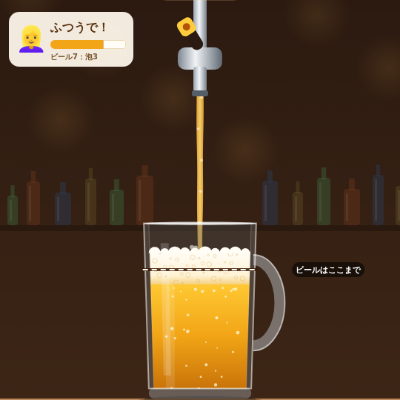
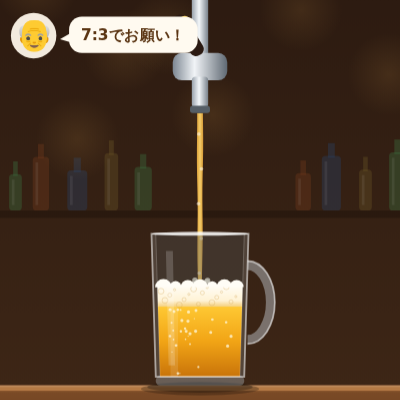
ビール注ぎ：注ぐ間のガイド線をなくし、お客さんの注文だけで判断する形に
Claude-Session: https://claude.ai/code/session_01G9HjaixTmY2WVcRow5FnGD

diff --git a/vappa-test/games/beer/index.html b/vappa-test/games/beer/index.html
@@ -26,7 +26,7 @@
 <div id="ov">
   <div class="emo">🍺</div>
   <h1>ビール注ぎ名人</h1>
-  <p><b>長押しで注いで、点線で指をはなす。</b><br>泡は あとから増えるよ！</p>
+  <p><b>お客さんの注文を聞いて、長押しで注ごう。</b><br>「7:3」なら ビール7割で指をはなす！<br>ガイド線はなし。泡は あとから増えて<br>ふちまでピッタリなら 大成功！</p>
   <button id="startBtn">はじめる</button>
 </div>
 <script src="../../js/arcade-sdk.js?v=2"></script>
@@ -115,10 +115,14 @@
   var holding=false,needRelease=false,everPoured=false;
   var shake=0;
 
+  // 注文：泡の割合は蛇口が自動で合わせる。プレイヤーは「ビールが何割まで来たか」を言葉だけで判断して止める
   var ORDERS={
-    std:   {type:"std",  target:0.30,title:"ふつうで！",  sub:"ビール7：泡3"},
-    more:  {type:"more", target:0.50,title:"泡多めで！",  sub:"蛇口が泡多めモードに。点線でストップ！"},
-    nofoam:{type:"nofoam",target:0.08,title:"泡なしで！",  sub:"泡ひかえめで注ぐよ。点線でストップ！"}
+    std:   {type:"std",   target:0.30,say:"7:3でお願い！",  title:"ビール7：泡3",sub:"ビール7割で 指をはなそう"},
+    r82:   {type:"r82",   target:0.20,say:"8:2で たのむ！", title:"ビール8：泡2",sub:"いつもより ちょい長めに注ごう"},
+    r64:   {type:"r64",   target:0.40,say:"6:4で よろしく！",title:"ビール6：泡4",sub:"泡が多め。少し早めにストップ"},
+    more:  {type:"more",  target:0.50,say:"泡多めで 5:5！", title:"ビール5：泡5",sub:"半分で止めないと あふれるぞ！"},
+    nami:  {type:"nami",  target:0.10,say:"なみなみ 9:1！", title:"ビール9：泡1",sub:"ふちギリギリまで ビール！"},
+    nofoam:{type:"nofoam",target:0.04,say:"泡なしで！",     title:"泡なし",      sub:"ほぼビールだけ。ふちまで注ごう"}
   };
   var FACES=["🧔","👩","👨🦲","👵","🧑💼","👱♀","🧑🍳","👴"];
 
@@ -138,23 +142,24 @@
     else if(n>=7&&r<(late?0.52:0.40))tap="sputter";
     if(n===4)tap="max";
     if(n===7)tap="sputter";
-    var ot="std";
-    if(n===5)ot="more";else if(n===9)ot="nofoam";
-    else if(n>5){var r2=Math.random();if(r2<0.17)ot="more";else if(r2<0.32)ot="nofoam";}
-    if(ot==="nofoam"&&tap==="max")tap="normal";
+    var ot="std",FIX={2:"r82",5:"more",6:"r64",9:"nofoam",11:"nami"};
+    if(FIX[n])ot=FIX[n];
+    else if(n>6){var r2=Math.random();ot=r2<0.28?"std":r2<0.44?"r82":r2<0.60?"r64":r2<0.74?"more":r2<0.88?"nami":"nofoam";}
+    if((ot==="nofoam"||ot==="nami")&&tap==="max")tap="normal";
+    var prevType=prev?prev.order.type:(cur?cur.order.type:"std");
     var speed=Math.max(0.72,1-n*0.012);
     cur={key:key,sh:sh,tap:tap,order:ORDERS[ot],face:FACES[(Math.random()*FACES.length)|0],
       L:0,F:0,P:0,LP:0,m:0,f:0,fj:0,pres:1,presT:1,sputT:0,T:sh.T*speed,
       state:"enter",st:0,x:W+200,idle:0,poured:false,result:null,over:false,
       overT:0,react:null,tilt:0,cardT:0};
-    // 目標ライン：泡がふちまで来たとき、ビールがここまで
+    // 正解ライン（注いでいる間は非表示。結果のときだけ答え合わせで見せる）
     cur.lineT=levelOf(sh,sh.cap*(1-cur.order.target));
     bubbles=[];for(var i=0;i<34;i++)bubbles.push({u:Math.random()*1.7-0.85,t:Math.random(),v:0.18+Math.random()*0.35,r:0.8+Math.random()*1.6});
     // 告知
     if(!sh.seen){sh.seen=true;showBanner((n===0?"":"NEW！ ")+sh.name,sh.tip,"#ffd166");}
     else if(tap==="max")showBanner("勢いMAX！","ドバッと出るぞ！早めにストップ","#ff6b6b");
     else if(tap==="sputter")showBanner("蛇口がゴボゴボ…","出たり止まったり！気をつけて","#7ad3ff");
-    else if(ot!=="std")showBanner(cur.order.title,cur.order.sub,"#9cff8f");
+    else if(ot!==prevType||n===0)showBanner(cur.order.title,cur.order.sub,"#9cff8f");
   }
   function showBanner(t,s,col){banner={t:t,s:s,col:col,age:0,dur:1.9};}
 
@@ -189,6 +194,7 @@
   function judge(over){
     var c=cur;c.F+=c.P;c.P=0;c.L+=c.LP;c.LP=0;
     var tot=c.L+c.F,vf=tot/c.sh.cap,r=tot>0?c.F/tot:0,tg=c.order.target;
+    if(!over&&vf>1.08){over=true;c.over=true;}
     var fillS=vf>=0.96?1:clamp((vf-0.60)/0.36,0,1);
     var err=Math.abs(r-tg);
     var ratioS=clamp(1-(err-0.06)/0.26,0,1);
@@ -253,7 +259,7 @@
       pourStep(c,dt);
       if(c.result.over){c.overT+=dt;if(Math.random()<dt*40){var side=Math.random()<0.5?-1:1;parts.push({x:c.x+side*(c.sh.hw(1)*S+4),y:mugTopY(c)+Math.random()*10,vx:side*8,vy:20+Math.random()*30,g:300,life:0.9,age:0,r:2+Math.random()*3,col:"#fff2d6",kind:"drop"});}}
       if(gameOverT>0){gameOverT-=dt;if(gameOverT<=0){gameOver();return;}}
-      else if(c.st>1.25){prev=c;prev.st=0;prev.state="exit";n++;newMug();}
+      else if(c.st>1.6){prev=c;prev.st=0;prev.state="exit";n++;newMug();}
     }
     if(prev){prev.st+=dt;prev.x=lerp(W/2,-240,Math.pow(clamp(prev.st/0.5,0,1),2));if(prev.st>0.55)prev=null;}
     // 泡（中の気泡）
@@ -434,43 +440,49 @@
     ctx.fillStyle="rgba(255,255,255,.75)";ctx.beginPath();ctx.ellipse(x,base-Hm,sh.hw(1)*S+6*S,2.2,0,0,Math.PI*2);ctx.fill();
     ctx.fillStyle="rgba(255,255,255,.18)";
     ctx.beginPath();for(var s=0;s<=20;s++){var t=0.08+s/20*0.8;ctx.lineTo(x-sh.hw(t)*S*0.78,base-t*Hm);}for(s=20;s>=0;s--){t=0.08+s/20*0.8;ctx.lineTo(x-sh.hw(t)*S*0.62,base-t*Hm);}ctx.closePath();ctx.fill();
-    // 目標ライン
-    if(isCur&&(c.state==="pour"||c.state==="enter")){
-      var lyT=base-c.lineT*Hm,lw=sh.hw(c.lineT)*S;
-      ctx.strokeStyle="rgba(60,25,0,.85)";ctx.lineWidth=4;
-      ctx.beginPath();ctx.moveTo(x-lw-10,lyT);ctx.lineTo(x+lw+10,lyT);ctx.stroke();
-      ctx.strokeStyle="#ffffff";ctx.setLineDash([7,5]);ctx.lineWidth=2;
-      ctx.beginPath();ctx.moveTo(x-lw-10,lyT);ctx.lineTo(x+lw+10,lyT);ctx.stroke();ctx.setLineDash([]);
-      var lbl="ビールはここまで";
-      ctx.font="800 11px "+FONT;ctx.textBaseline="middle";
-      var tx=x+lw+14,tw2=ctx.measureText(lbl).width;
-      var left=tx+tw2+14>W;if(left)tx=x-lw-14-tw2-10;
-      if(sh.handle&&!left){tx=x+lw+10+Hm*0.26*0.62+16;if(tx+tw2+12>W)tx=x-lw-14-tw2-10;}
-      if(tx<8)tx=x-tw2/2;
-      ctx.fillStyle="rgba(0,0,0,.55)";rr(tx-5,lyT-10,tw2+10,20,10);ctx.fill();
-      ctx.fillStyle="#fff";ctx.textAlign="left";ctx.fillText(lbl,tx,lyT+1);
+    // 答え合わせ：結果が出てから「正解ライン」をうっすら表示（注いでいる間は出さない）
+    if(isCur&&c.state==="result"){
+      var ga=clamp((c.st-0.25)/0.3,0,1)*clamp((1.6-c.st)/0.25,0,1);
+      if(ga>0){
+        var lyT=base-Math.min(1,c.lineT)*Hm,lw=sh.hw(Math.min(1,c.lineT))*S;
+        ctx.globalAlpha=ga;
+        ctx.strokeStyle="rgba(40,15,0,.7)";ctx.lineWidth=4;
+        ctx.beginPath();ctx.moveTo(x-lw-8,lyT);ctx.lineTo(x+lw+8,lyT);ctx.stroke();
+        ctx.strokeStyle="#9cff8f";ctx.setLineDash([7,5]);ctx.lineWidth=2;
+        ctx.beginPath();ctx.moveTo(x-lw-8,lyT);ctx.lineTo(x+lw+8,lyT);ctx.stroke();ctx.setLineDash([]);
+        var lbl="正解はここ";
+        ctx.font="800 11px "+FONT;ctx.textBaseline="middle";
+        var tw2=ctx.measureText(lbl).width,tx=x-lw-16-tw2;
+        if(tx<8)tx=x-tw2/2;
+        ctx.fillStyle="rgba(20,60,10,.8)";rr(tx-5,lyT-10,tw2+10,20,10);ctx.fill();
+        ctx.fillStyle="#d8ffcf";ctx.textAlign="left";ctx.fillText(lbl,tx,lyT+1);
+        ctx.globalAlpha=1;
+      }
     }
     ctx.restore();
   }
 
   function drawOrderCard(c){
+    // お客さんのふきだし（言葉だけ。比率バーや目盛りは出さない）
     if(!c)return;
-    var o=c.order,cx=12,cy=86,w=Math.min(168,W*0.42),h=74;
+    var o=c.order,cx=12,cy=86,fh=50;
     var t=easeBack(clamp(c.cardT/0.4,0,1));
-    ctx.save();ctx.translate(cx-(1-t)*(w+20),cy);
+    ctx.save();ctx.translate(cx-(1-t)*(W*0.7),cy);
     var spec=o.type!=="std";
-    ctx.fillStyle=spec?"#fff3c4":"rgba(255,248,235,.94)";rr(0,0,w,h,14);ctx.fill();
-    if(spec){ctx.strokeStyle="#ff9f1c";ctx.lineWidth=3;rr(1.5,1.5,w-3,h-3,13);ctx.stroke();}
+    // 顔
+    ctx.fillStyle="rgba(255,248,235,.94)";ctx.beginPath();ctx.arc(fh/2,fh/2+4,fh/2,0,Math.PI*2);ctx.fill();
     ctx.font="34px "+FONT;ctx.textAlign="center";ctx.textBaseline="middle";
-    ctx.fillText(c.react||c.face,30,h/2+2);
-    ctx.fillStyle=spec?"#c2410c":"#5a3412";ctx.font="800 16px "+FONT;ctx.textAlign="left";
-    ctx.fillText(o.title,56,22);
-    // ミニ比率バー
-    var bx=56,by=38,bw=w-66,bh=12,fr=o.target;
-    ctx.fillStyle="#f2a516";rr(bx,by,bw,bh,6);ctx.fill();
-    if(fr>0){ctx.save();rr(bx,by,bw,bh,6);ctx.clip();ctx.fillStyle="#fffdf6";ctx.fillRect(bx+bw*(1-fr),by,bw*fr,bh);ctx.strokeStyle="#d9b77a";ctx.lineWidth=1;ctx.strokeRect(bx+bw*(1-fr),by,bw*fr,bh);ctx.restore();}
-    ctx.fillStyle="#7a5530";ctx.font="700 10px "+FONT;
-    ctx.fillText(o.type==="nofoam"?"ほぼ泡なし":"ビール"+Math.round((1-o.target)*10)+"：泡"+Math.round(o.target*10),bx,by+bh+11);
+    ctx.fillText(c.react||c.face,fh/2,fh/2+6);
+    // ふきだし
+    ctx.font="800 17px "+FONT;
+    var tw=ctx.measureText(o.say).width,bx=fh+14,bw=Math.min(W-cx-bx-8,tw+26),bh=40,by=8;
+    ctx.fillStyle=spec?"#fff3c4":"#fffaf0";
+    rr(bx,by,bw,bh,14);ctx.fill();
+    ctx.beginPath();ctx.moveTo(bx+2,by+bh*0.45);ctx.lineTo(bx-10,by+bh*0.62);ctx.lineTo(bx+4,by+bh*0.72);ctx.closePath();ctx.fill();
+    if(spec){ctx.strokeStyle="#ff9f1c";ctx.lineWidth=2.5;rr(bx,by,bw,bh,14);ctx.stroke();}
+    ctx.fillStyle=spec?"#b8380a":"#5a3412";ctx.textAlign="center";
+    var pul=c.state==="enter"||(c.state==="pour"&&!c.poured)?1+0.03*Math.sin(time*6):1;
+    ctx.save();ctx.translate(bx+bw/2,by+bh/2+1);ctx.scale(pul,pul);ctx.fillText(o.say,0,0);ctx.restore();
     ctx.restore();
   }
 
@@ -507,7 +519,7 @@
     if(!c)return;
     var gy=Math.round(counterY+Math.min(64,(H-counterY)*0.4)),txt=null,pulse=false;
     if(c.state==="pour"&&!c.poured){txt="👆 長押しで注ぐ";pulse=true;}
-    else if(c.state==="pour"&&c.flow>0)txt="点線で 指をはなす！";
+    else if(c.state==="pour"&&c.flow>0)txt="注文どおりで 指をはなす！";
     ctx.textAlign="center";ctx.textBaseline="middle";
     if(txt){
       ctx.font="800 17px "+FONT;var tw=ctx.measureText(txt).width;
@@ -537,10 +549,9 @@
       ctx.lineWidth=7;ctx.strokeStyle="rgba(40,16,0,.75)";ctx.lineJoin="round";ctx.strokeText(o.t,0,0);ctx.fillStyle=o.col;ctx.fillText(o.t,0,0);
       ctx.restore();}
     if(cur&&cur.result&&cur.state==="result"&&!cur.result.over){
-      var r=cur.result,al2=clamp(cur.st/0.2,0,1)*clamp((1.25-cur.st)/0.2,0,1);
-      var rb=Math.round((1-r.ratio)*10),rf=10-rb;
+      var r=cur.result,al2=clamp(cur.st/0.2,0,1)*clamp((1.6-cur.st)/0.2,0,1);
       ctx.globalAlpha=al2;ctx.font="800 13px "+FONT;ctx.textAlign="center";ctx.textBaseline="middle";
-      var txt="ビール"+rb+"：泡"+rf,tw=ctx.measureText(txt).width;
+      var txt="注文 "+cur.order.title.replace("ビール","").replace("：泡",":")+"  →  ふち "+Math.round(clamp((cur.L+cur.F)/cur.sh.cap,0,1.2)*100)+"%",tw=ctx.measureText(txt).width;
       ctx.fillStyle="rgba(0,0,0,.55)";rr(W/2-tw/2-10,counterY+10-34,tw+20,24,12);ctx.fill();
       ctx.fillStyle="#fff";ctx.fillText(txt,W/2,counterY-12);ctx.globalAlpha=1;
     }
